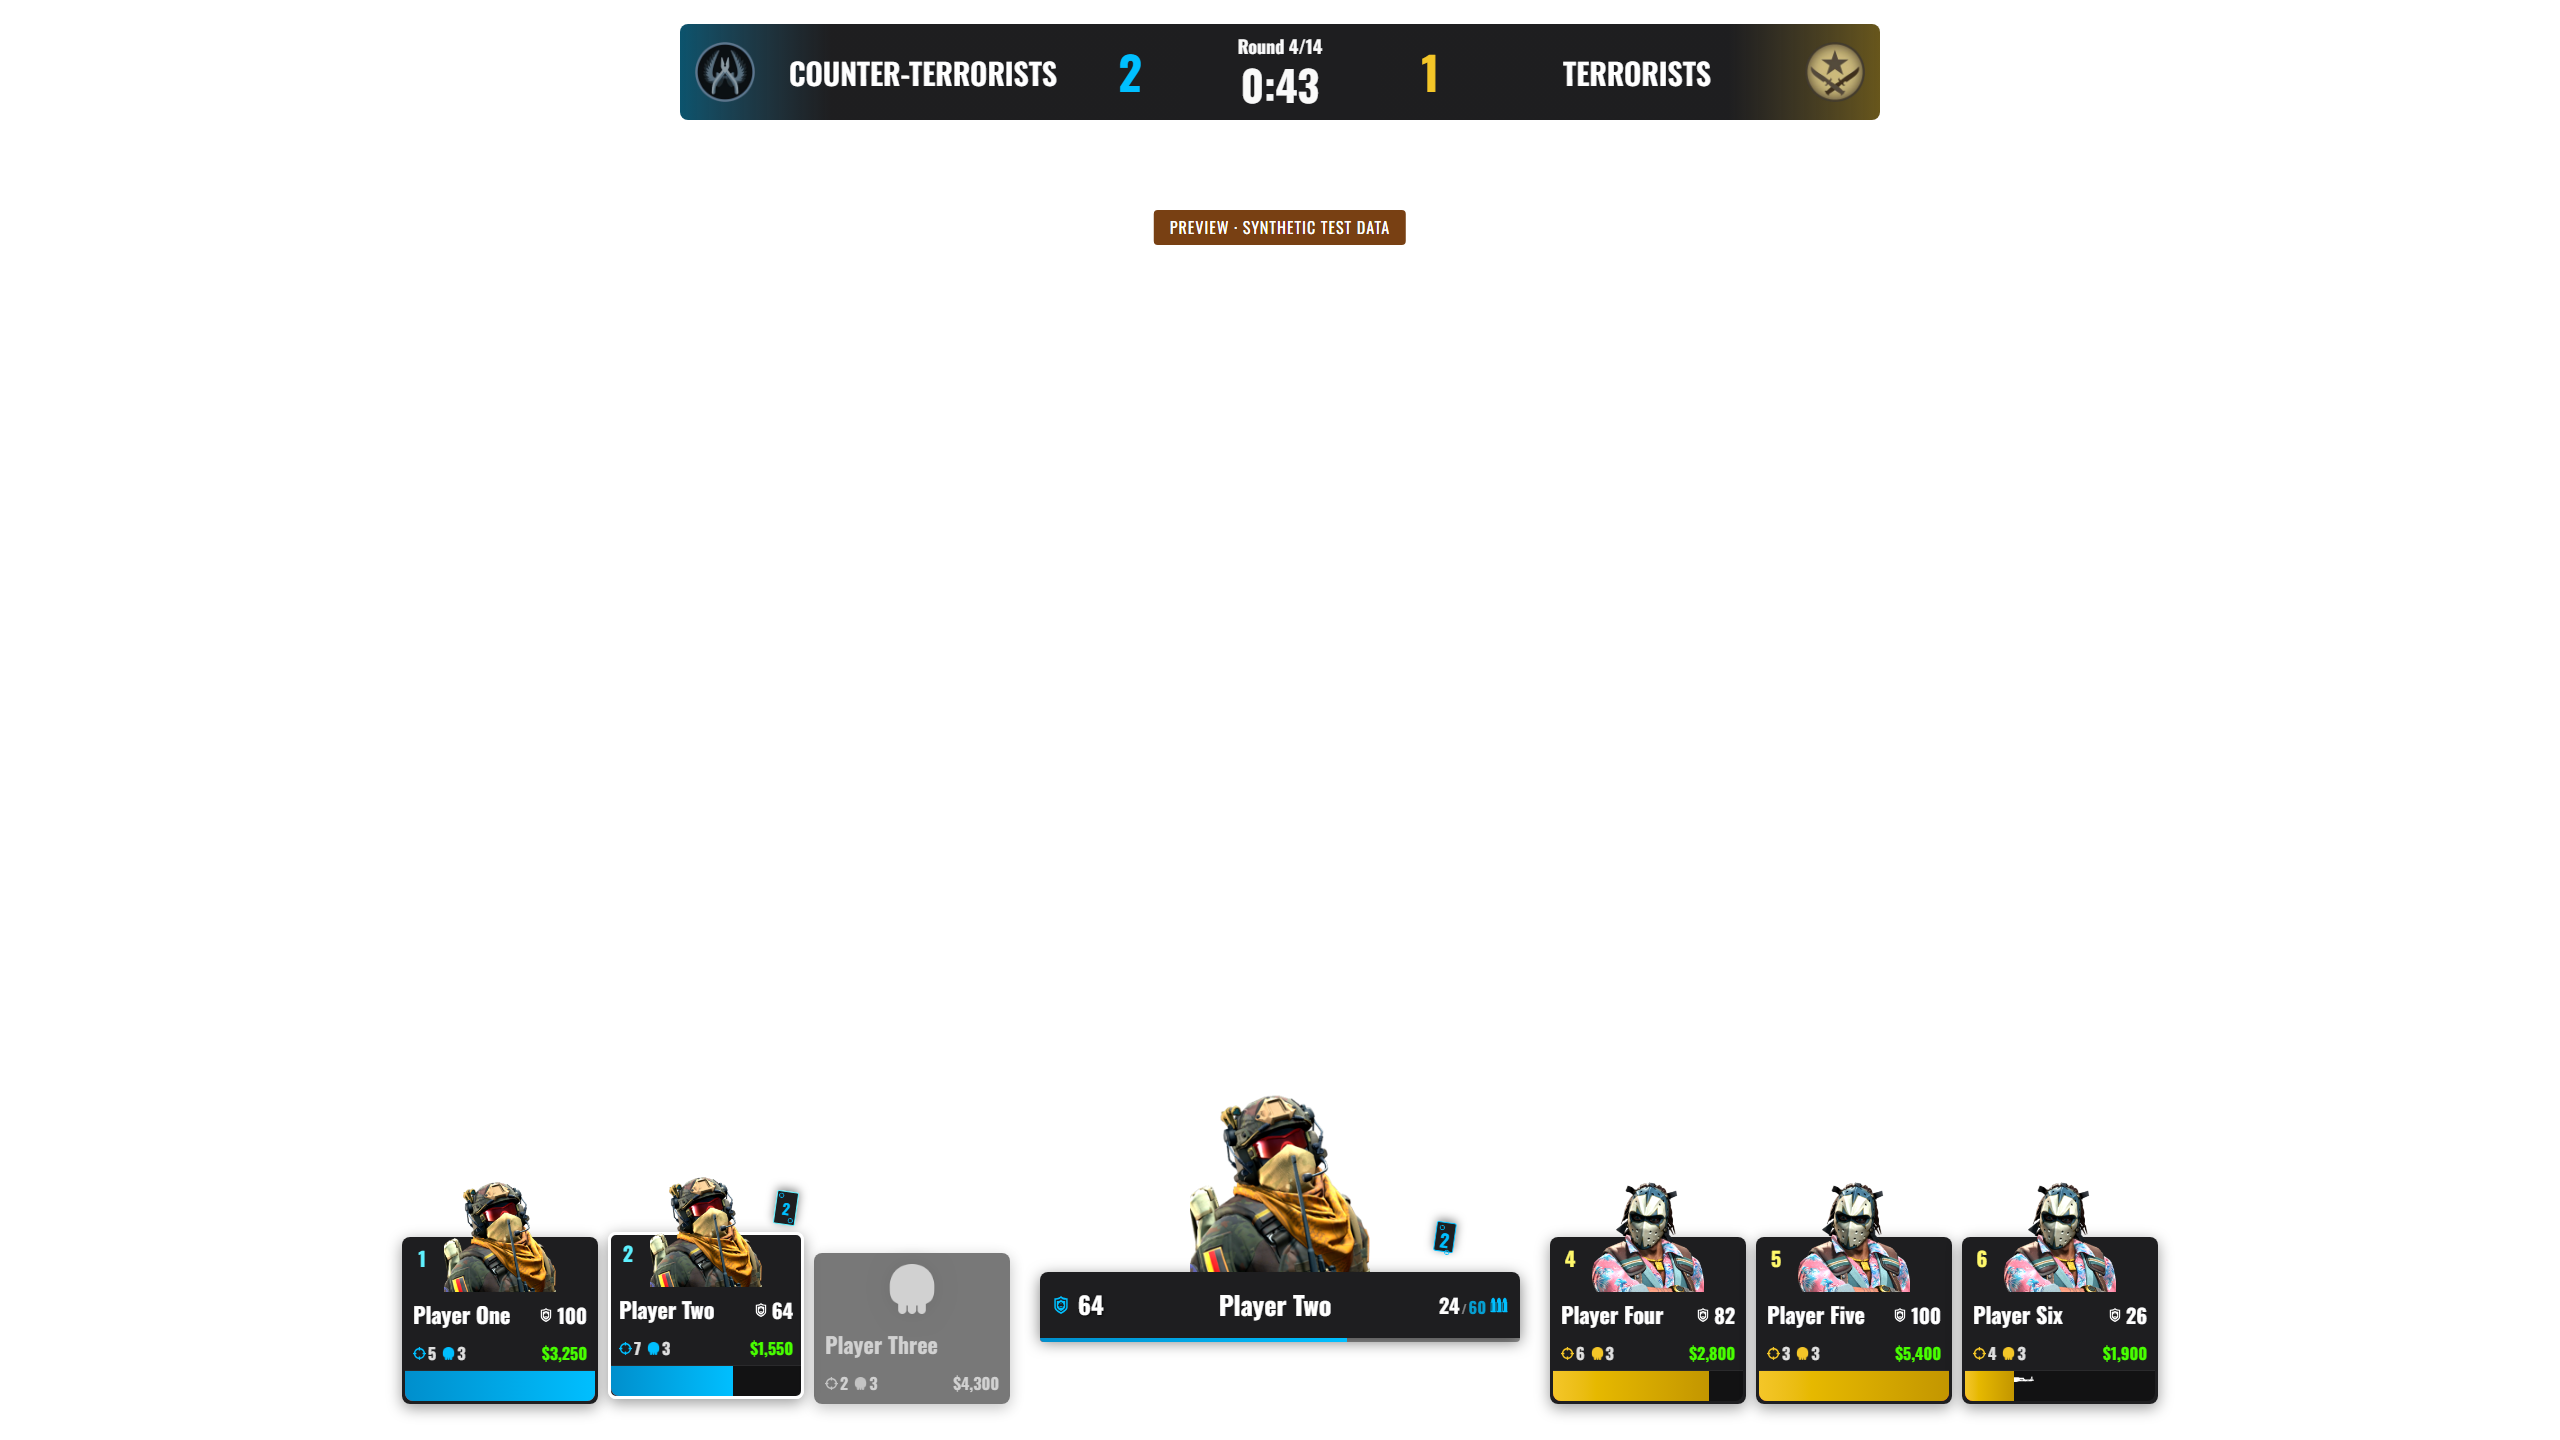
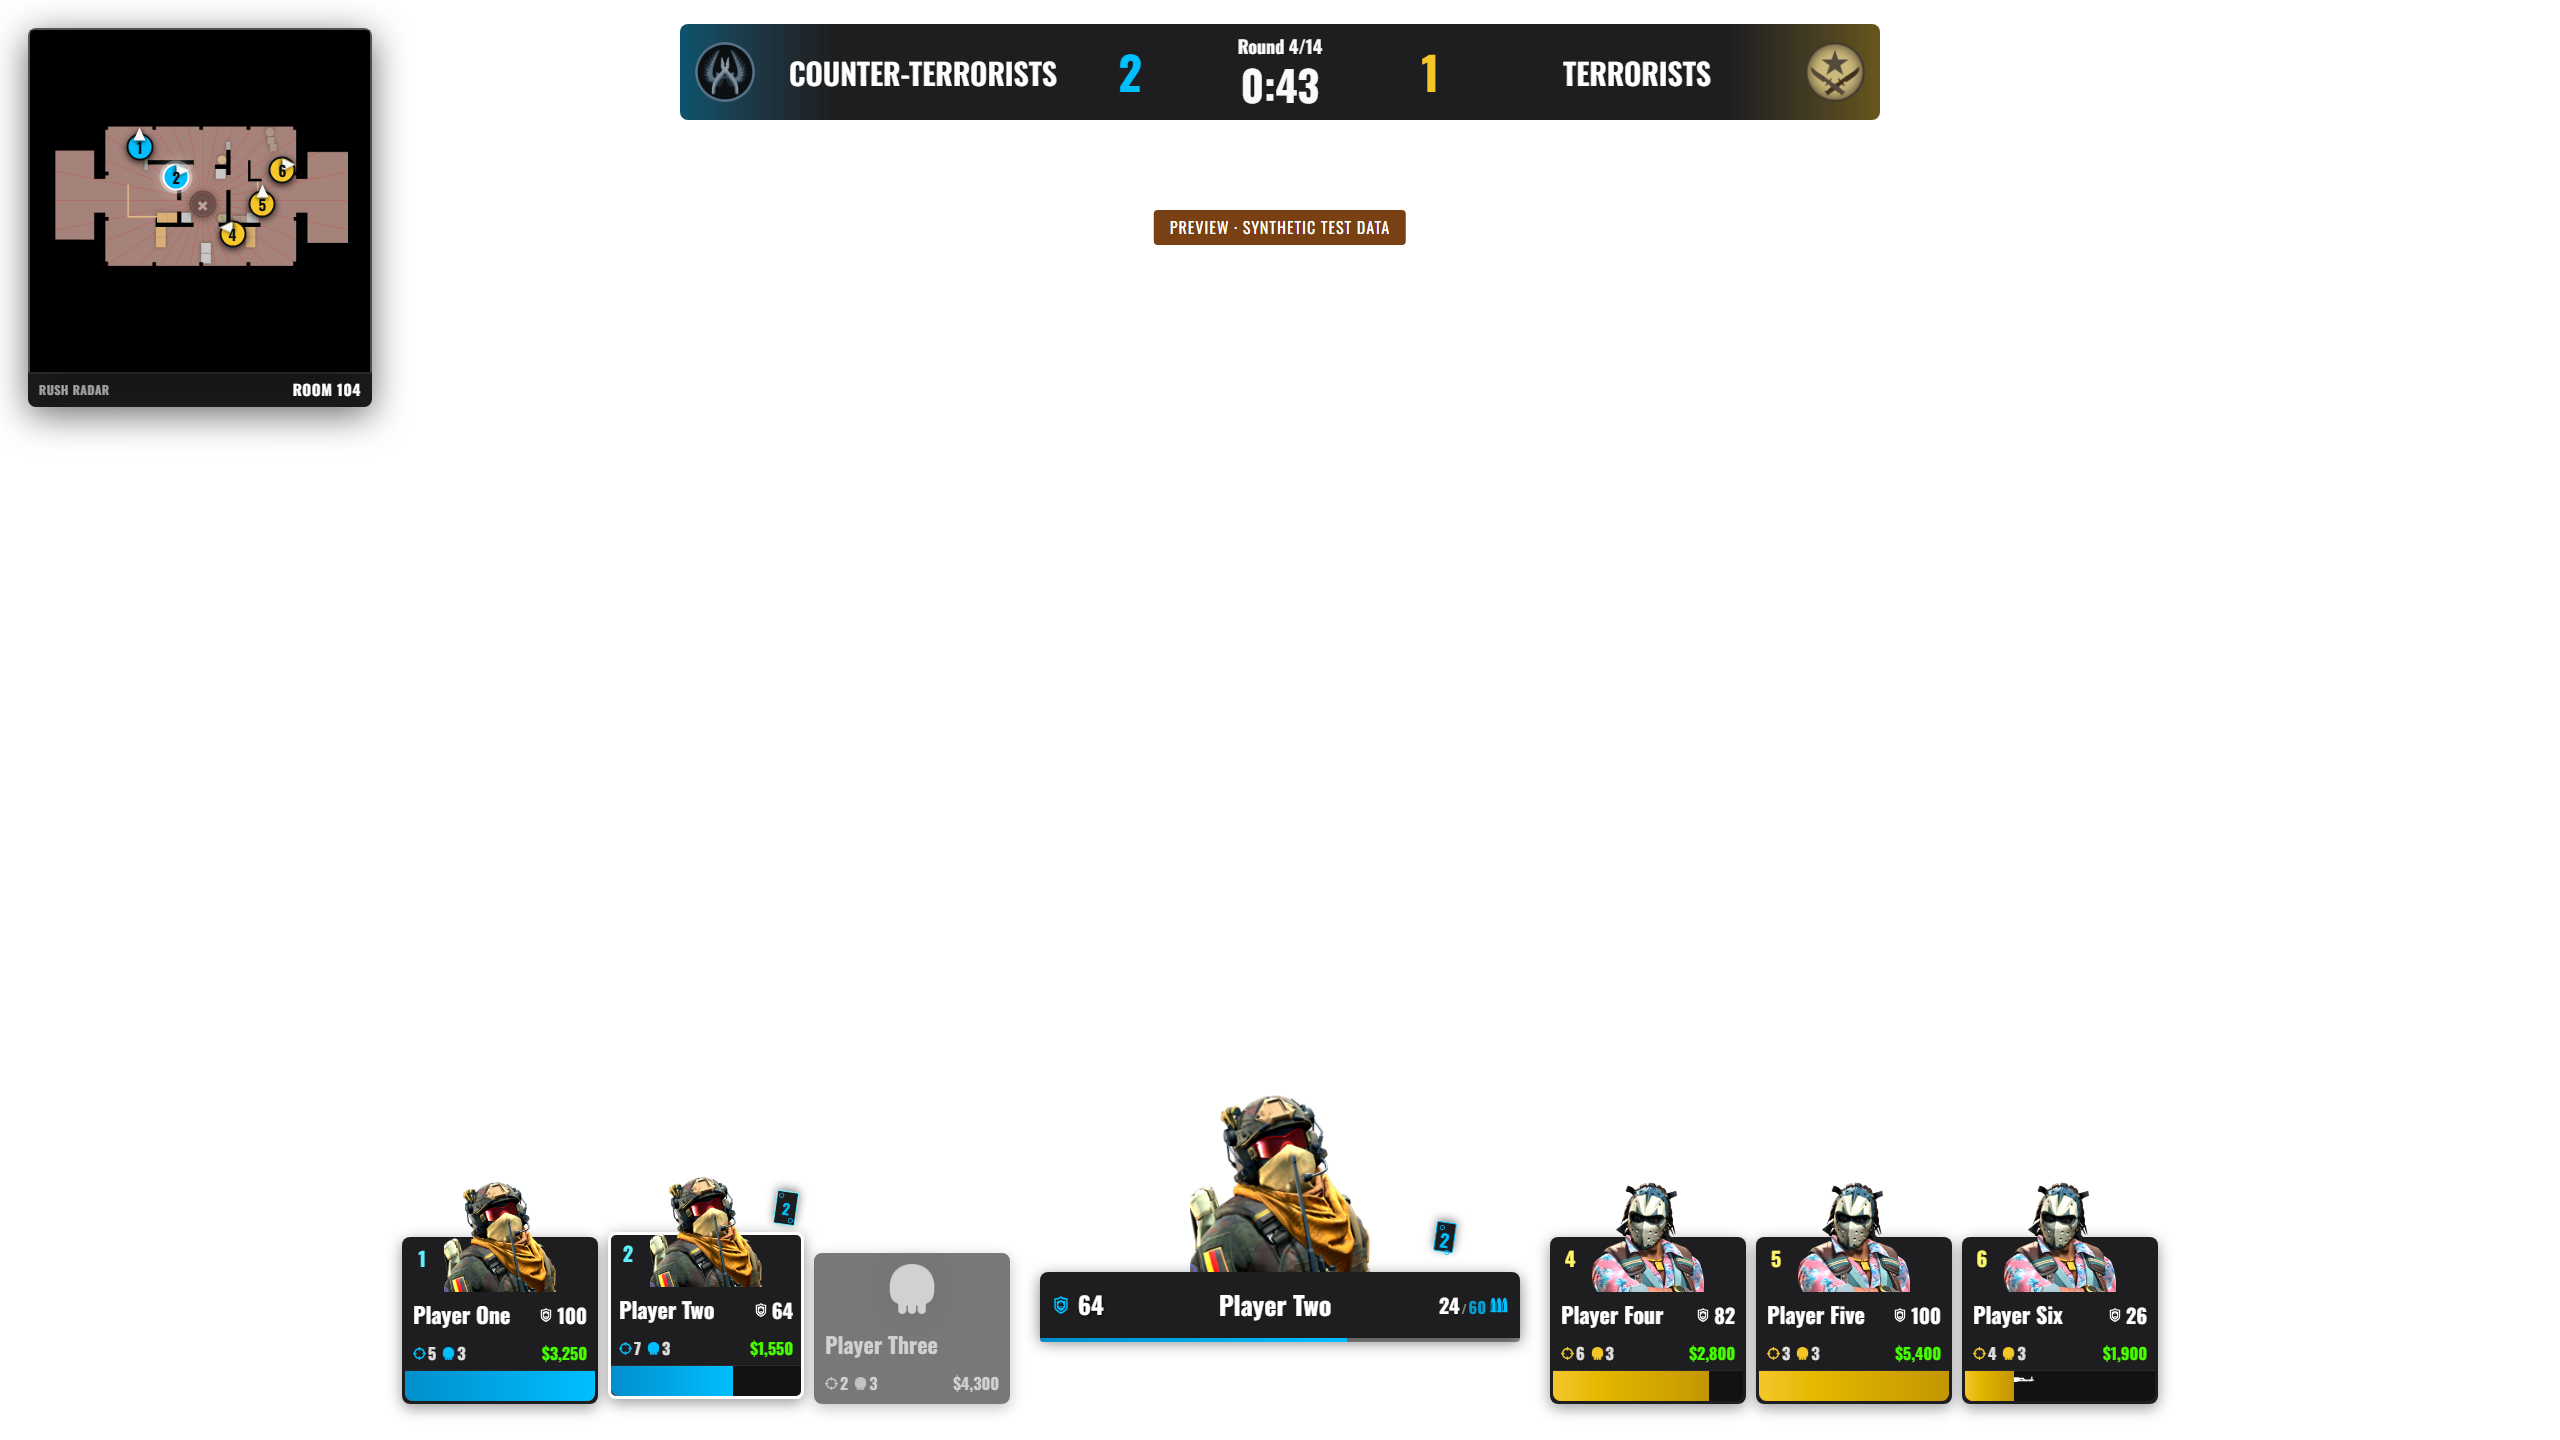
Add room-aware RUSH radar

Changed region(s): [[0.0, 0.0, 0.1562, 0.3125]]

diff --git a/style.css b/style.css
@@ -23,6 +23,19 @@ body { color: #fff; }
 #matchbar #round_timer_text { font-size: 42px; line-height: 1.2; }
 .status, .preview-tag { position: absolute; top: 166px; left: 50%; transform: translateX(-50%); padding: 7px 16px; background: #121214ed; border-radius: 4px; font-size: 16px; text-align: center; animation: hud-pop-in .4s cubic-bezier(.22,1,.36,1) both; }
 .preview-tag { top: 210px; background: #784013; letter-spacing: 1px; }
+.rush-radar { position: absolute; top: 28px; left: 28px; width: 344px; color: #fff; filter: drop-shadow(0 8px 18px #0009); transform-origin: top left; perspective: 600px; }
+.radar-map { position: relative; width: 344px; height: 344px; overflow: hidden; border: 2px solid #ffffff24; border-bottom: 0; border-radius: var(--radius) var(--radius) 0 0; background-color: #111c; background-position: center; background-repeat: no-repeat; background-size: 100% 100%; }
+.radar-caption { height: 35px; display: flex; align-items: center; justify-content: space-between; gap: 12px; padding: 0 11px; border-radius: 0 0 var(--radius) var(--radius); background: var(--main-panel-color); box-shadow: inset 0 2px #ffffff12; font-size: 15px; letter-spacing: .7px; text-transform: uppercase; }
+.radar-caption span { color: #ffffff99; font-size: 12px; font-weight: 600; }
+.radar-caption strong { overflow: hidden; text-overflow: ellipsis; white-space: nowrap; }
+.radar-player { position: absolute; width: 27px; height: 27px; translate: -50% -50%; display: grid; place-items: center; z-index: 2; border: 2px solid #101114; border-radius: 50%; background: var(--color-ct); box-shadow: 0 2px 7px #000c; color: #081015; font-size: 15px; line-height: 1; font-weight: 700; transition: left .13s linear, top .13s linear, opacity .3s ease, filter .3s ease; }
+.radar-player.T { background: var(--color-t); }
+.radar-player strong { position: relative; z-index: 2; }
+.radar-facing { position: absolute; left: 50%; top: 50%; width: 0; height: 0; border-left: 6px solid transparent; border-right: 6px solid transparent; border-bottom: 13px solid #f8f8f8; transform-origin: 50% 13px; transform: translate(-50%, -19px) rotate(var(--facing)); filter: drop-shadow(0 1px 2px #000); z-index: -1; }
+.radar-player.dead { opacity: .42; filter: grayscale(1); }
+.radar-player.dead::after { content: '×'; position: absolute; inset: 0; display: grid; place-items: center; border-radius: 50%; background: #161719; color: #ddd; font-size: 24px; line-height: 1; z-index: 3; }
+.radar-player.active { border-color: #fff; box-shadow: 0 0 0 3px #ffffff55, 0 0 15px #fff8; animation: radar-active 1.15s ease-in-out infinite alternate; }
+@keyframes radar-active { from { box-shadow: 0 0 0 2px #ffffff45, 0 0 8px #fff6; } to { box-shadow: 0 0 0 4px #ffffff70, 0 0 17px #fffa; } }
 .teambox.layout-horizontal { bottom: 36px; gap: 10px; }
 .teambox.layout-horizontal.left { transform: translateX(-100%) translateX(-270px); }
 .teambox.layout-horizontal.right { transform: translateX(270px); }

diff --git a/README.md b/README.md
@@ -34,6 +34,7 @@ The animated end-of-match screen appears three seconds after CS2 reports gameove
 - RUSH rounds 1–14 and a **Tiebreak** label at 7–7. No competitive /24 counter, overtime sets, halftime or loss-bonus calculations.
 - Live player cards show health, armor, money, active and carried weapons, grenades, kills and deaths. Assists remain available on the match-end K/A/D results screen.
 - Observed-player highlighting and ammunition.
+- A top-left, room-aware RUSH radar selects the randomized arena from live player coordinates and tracks all reported players by position, facing direction, side, observer slot, observed target and death state. It includes the convoy tiebreak and party/warmup area.
 - The default JT HUD's horizontal portrait cards, team logos, central observed-player portrait, weapon silhouettes, gradients, skull/death transitions and delayed red health trails. Floating damage numbers and score/observer transitions preserve their state across updates. Animations respect reduced-motion preferences. The top-right player counter is omitted.
 - Element-level motion follows live events: the matchbar, player cards and observed panel enter in sequence; round changes flip the timer; scores pop; players animate on entry, death and revival; statistics, equipment and round-kill cards react to changes; and utility, round-win, pause and timeout panels animate both in and out. Routine countdown ticks do not restart animations.
 - Round-kill cards use reported `state.round_kills`, separately from cumulative match kills.
@@ -45,7 +46,7 @@ The manager's HUD panel provides tournament name/stage, CT and T colors, square 
 
 ## Limits and troubleshooting
 
-**Retain CS2's native RUSH objective display.** The tower changes ownership when a player interacts with it, but that interaction and ownership state were absent from the captured GSI packets. The addon does not infer tower ownership from team scores, round winners or player positions. RUSH has no bomb/defuse UI. The addon also does not provide a custom radar or killfeed.
+**Retain CS2's native RUSH objective display.** The tower changes ownership when a player interacts with it, but that interaction and ownership state were absent from the captured GSI packets. The addon does not infer tower ownership from team scores, round winners or player positions. RUSH has no bomb/defuse UI. The addon does not provide a killfeed.
 
 Full-team data requires CS2 to send an `allplayers` roster. A player-view feed may omit it. If the HUD is waiting, check that CS2 is in RUSH, that you are observing, and that the manager is receiving GSI updates. Restart CS2 after installing the GSI configuration. If the browser source cannot connect, check that the manager is running and the source uses its current address.
 
@@ -60,6 +61,7 @@ Edit **images.json** in the HUD folder. On Windows the installed folder is norma
 - `logos.CT` and `logos.T`: scoreboard logos. `null` uses the default JT logo.
 - `icons`: skull, kills, armor, helmet and bullets. Each can be a direct path string or an object with `src` and `tint`. Set `tint` to `false` for a full-color image; `true` uses the image's transparency as a team-colored silhouette.
 - `weapons`: optional overrides keyed by GSI weapon name without `weapon_`, such as `ak47` or `flashbang`. Each accepts `src` and `tint`; `false` preserves colors, `true` renders a white silhouette. Existing weapon SVGs can also be replaced directly in `assets/weapons/`.
+- `radar`: optional background overrides keyed by `room101` through `room104`, `room201` through `room212`, `room301`, `room401`, `roomparty` and `convoy`. A `null` value uses the bundled RUSH overview. The replacement must preserve the same 1024×1024 room calibration.
 
 For example, change `portraits.CT` to `"./assets/custom/ct.jpg"`, set `icons.skull` to `"./assets/custom/skull.png"`, or add `"ak47": { "src": "./assets/custom/ak47.svg", "tint": true }` inside `weapons`. Supported Chromium formats include **SVG, PNG, JPG/JPEG, WebP, GIF, AVIF, BMP and ICO**. Animated GIF and animated WebP files retain their animation. Use `tint: false` for JPG and other full-color images because they do not provide a useful transparency mask. Images use contain sizing so their aspect ratio is preserved without cropping.
 
@@ -68,7 +70,7 @@ For example, change `portraits.CT` to `"./assets/custom/ct.jpg"`, set `icons.sku
 Use Node.js 20 or later and PowerShell. From this folder:
 
 ```powershell
-node --test model.test.mjs motion.test.mjs
+node --test model.test.mjs motion.test.mjs radar.test.mjs theme.test.mjs
 powershell -NoProfile -File .\Build-RushHud.ps1
 ```
 
@@ -80,7 +82,7 @@ pwsh -NoProfile -File .\Build-RushHud.ps1 -Install
 
 Append `?preview=1` to the installed HUD URL for a labeled synthetic preview, or `?preview=1&stress=1` for long names and extreme values. Remove these parameters for a live broadcast. Tests use synthetic data; local game captures are excluded from the repository and package.
 
-The HUD registers in the manager's Socket.IO `huds` room and consumes raw `update` snapshots. It activates for `map.mode === "rush"`, takes rosters from `allplayers`, and matches the observed player's `spectarget` or `steamid` against roster IDs.
+The HUD registers in the manager's Socket.IO `huds` room and consumes raw `update` snapshots. It activates for `map.mode === "rush"`, takes rosters from `allplayers`, and matches the observed player's `spectarget` or `steamid` against roster IDs. Radar coordinates come directly from each roster player's reported `position` and `forward`; if those fields are absent, the radar stays hidden instead of guessing an arena.
 
 ## Local RUSH testing
 

diff --git a/FEATURE-PARITY.md b/FEATURE-PARITY.md
@@ -10,6 +10,7 @@ Compared against the installed July 13, 2026 default HUD bundle and its panel.js
 - The default-style animated end-of-match screen shows the winner, final scores, replaceable team logos and three-player K/A/D lists. It appears three seconds after gameover and remains while connected until the game state changes. Missing/tied results do not fabricate a winner. An explicit completed round-15 tiebreak winner can resolve a retained 7-7 score.
 - Version 1.5.0 adds explicit round-win announcements, pause/timeout overlays, reported timeout counts, buy-phase team utility totals, tournament branding, CT/T colors, corner/model/advertisement/compact-matchbar controls, fuller carried equipment strips and accumulated rapid-hit damage numbers.
 - Version 1.6.0 adds event-driven motion to the matchbar, rosters, player entry/death/revival, observed player, timer, scores, statistics, equipment, round-kill cards, utility panels, round announcements, pauses and timeouts. Keyed elements stay mounted for exit transitions, and countdown-only updates remain quiet.
+- Version 1.7.0 adds the default-style radar behavior adapted to RUSH's randomized arenas. Live player coordinates select the calibrated room overview and drive team-colored, directional player markers, including observed and dead states.
 - Local image overrides, reduced motion, stale live-data clearing and disconnect cleanup.
 
 ## Missing features that can be adapted
@@ -20,7 +21,6 @@ Compared against the installed July 13, 2026 default HUD bundle and its panel.js
 
 ## Data-dependent or unsuitable without adaptation
 
-- **Radar:** default radar assets/calibration cover competitive maps. RUSH needs room-aware map assets, positions and reliable room selection. No verified room/objective feed is currently integrated.
 - **Killfeed:** the default contains a renderer subscribing to kill events, but its manifest advertises killfeed=false. Raw GSI health/K/D snapshots do not reliably supply killer/victim/weapon/headshot attribution. A verified event source is required; the default renderer's presence does not prove a working feed.
 - **ADR:** default results show K/D/ADR. RUSH results show K/A/D. Reliable ADR needs authoritative damage totals and round accounting, or complete captured round damage from the match start. Joining mid-match cannot recover missing damage history.
 - **Player cameras:** the default avatar component has camera hooks. These require a separately configured video feed; the RUSH addon does not integrate it.

diff --git a/CHANGELOG.md b/CHANGELOG.md
@@ -1,5 +1,11 @@
 # Changelog
 
+## 1.7.0
+
+- Add a room-aware RUSH radar using the overview textures and calibration shipped with CS2.
+- Detect the randomized room from live roster positions and track player position, facing, team, observer slot, observed target and death state.
+- Add replaceable radar backgrounds for every RUSH room, the party area and the convoy tiebreak.
+
 ## 1.6.4
 
 - Remove overlapping brightness animations from dead player cards so their death opacity remains stable after the initial JT transition.
